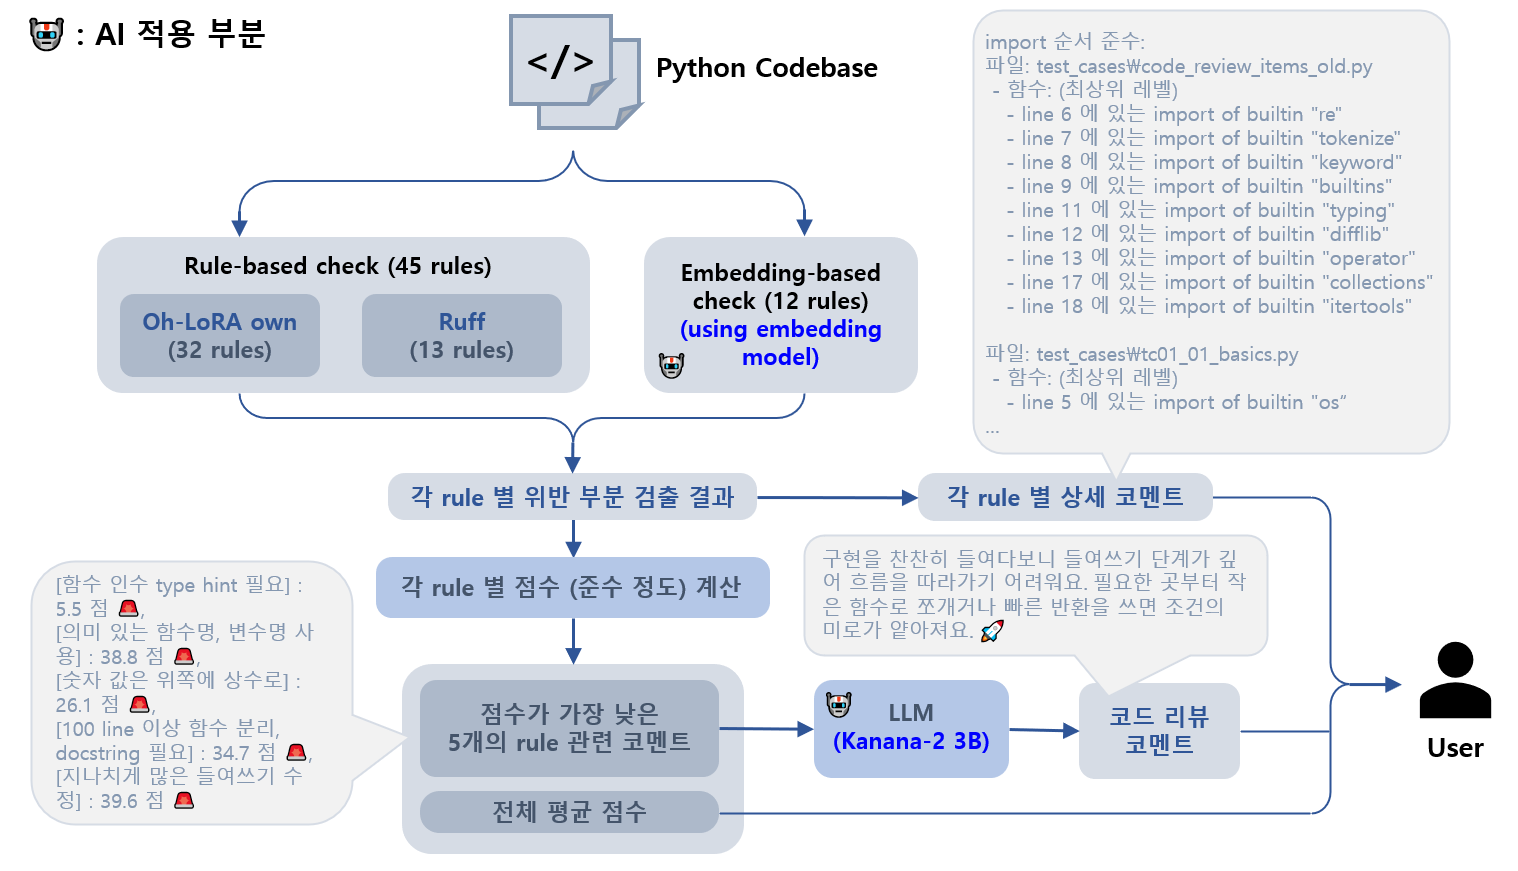
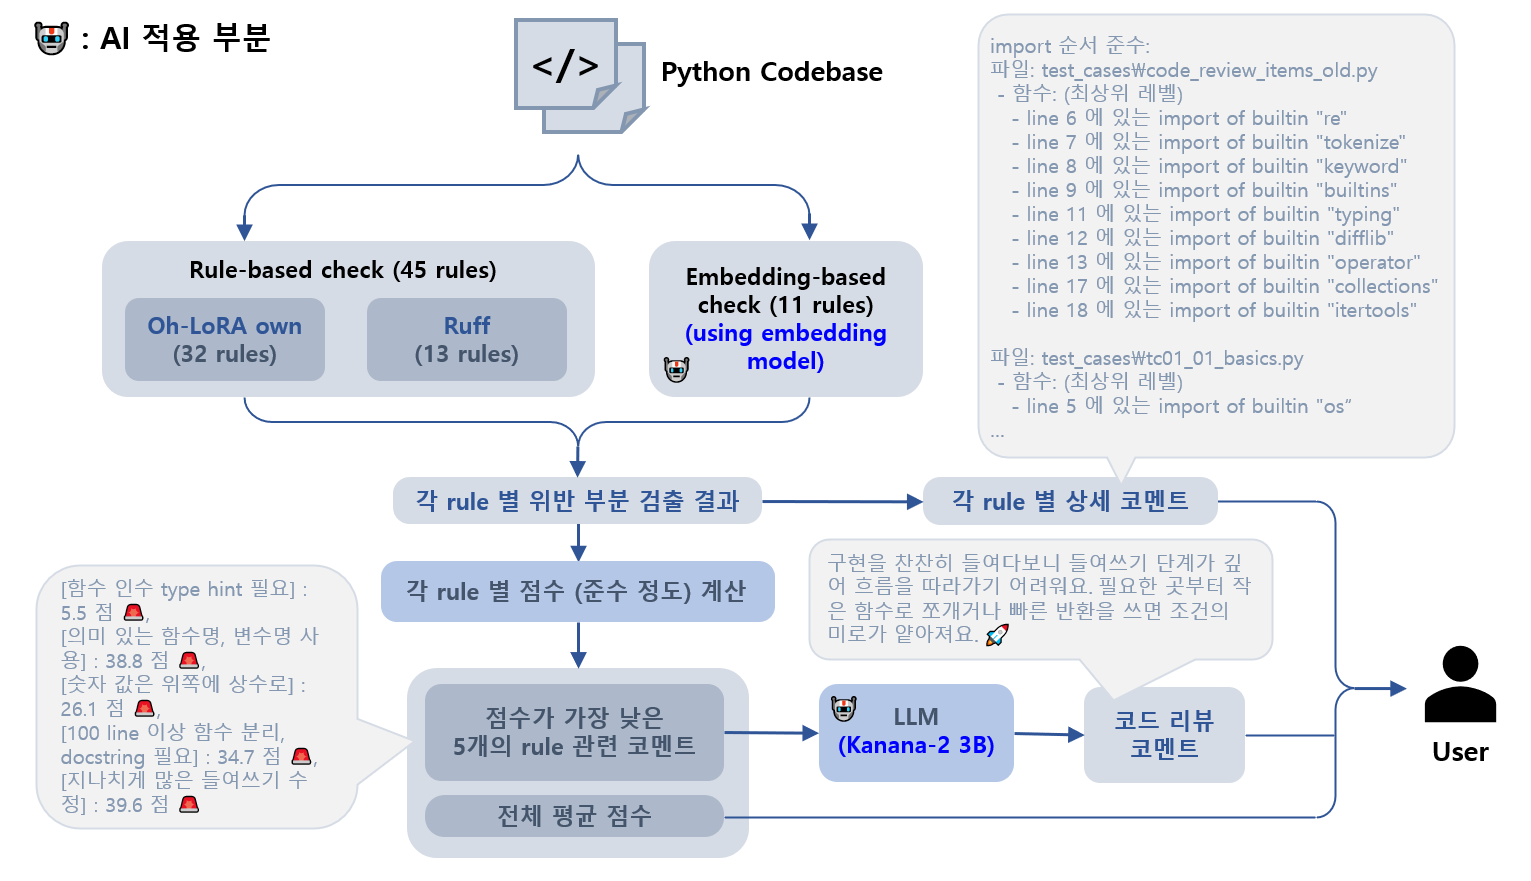
DOC: add detailed process info

diff --git a/2026_08_28_OhLoRA_Code_Assistant/code_reviewer/README.md b/2026_08_28_OhLoRA_Code_Assistant/code_reviewer/README.md
@@ -18,7 +18,7 @@
 
 | 프로세스         | 입력                        | 출력                                                             | 처리 과정                                                                                                       |
 |--------------|---------------------------|----------------------------------------------------------------|-------------------------------------------------------------------------------------------------------------|
-| 코드 리뷰        | Python 코드베이스              | 각 rule 별 위반 부분 검출 결과                                           | - Rule-based check (45개 규칙, 13개의 `ruff` 규칙 포함)<br>- 🤖 임베딩 기반 check (12개 규칙)                                |
+| 코드 리뷰        | Python 코드베이스              | 각 rule 별 위반 부분 검출 결과                                           | - Rule-based check (45개 규칙, 13개의 `ruff` 규칙 포함)<br>- 🤖 임베딩 기반 check (11개 규칙)                                |
 | 사용자 코멘트 도출   | 각 rule 별 위반 부분 검출 결과      | - 각 rule 별 상세 코멘트<br>- 점수가 가장 낮은 5개의 rule 관련 코멘트<br>- 전체 평균 점수 | - 검출 결과로부터 상세 코멘트 생성<br>- 각 rule 별 **준수 정도를 나타내는 점수** 를 일정한 수식에 의해 계산<br>- 전체 평균 점수는 **각 rule 별 점수의 산술 평균** |
 | 코드 리뷰 코멘트 생성 | 점수가 가장 낮은 5개의 rule 관련 코멘트 | 코드 리뷰 코멘트                                                      | 🤖 LLM은 `kanana-2-3b-instruct` 모델 사용                                                                        |
 
@@ -26,7 +26,81 @@
 
 ### 3-1. 코드 리뷰
 
+Python Codebase 를 **Rule-based 기반 검사 규칙** 및 **임베딩 기반 검사 규칙** 에 의해 검사하고, 각 rule 별 위반된 부분을 검출한다.
+
+* [코드 리뷰 기준 (전체 rule)](code_review_standard.md)
+* Rule-based check (45개 규칙)
+  * [ruff 의 한계점 분석 결과 (Oh-LoRA 자체 규칙 32개의 도입 이유)](ruff_limits.md)
+* Embedding-based check (11개 규칙)
+  * [각 규칙 별 선택한 임베딩 모델](../embedding_model/model_candidates.md)
+  * [각 규칙 별 임베딩 모델 테스트 결과](../embedding_model/model_test_result.md)
+
 ### 3-2. 사용자 코멘트 도출
+
+**각 rule 별 위반 부분 검출 결과** 에 따라 **각 rule 별 상세 코멘트, 점수가 가장 낮은 5개의 rule 관련 코멘트, 전체 평균 점수** 도출
+
+* 각 rule 별 상세 코멘트
+  * **규칙 별 > 파일 별 > 함수 별** 로 아래 예시와 같이 상세 코멘트 도출
+
+```
+import 순서 준수:
+파일: test_cases\code_review_items_old.py
+ - 함수: (최상위 레벨)
+   - line 6 에 있는 import of builtin "re"
+   - line 7 에 있는 import of builtin "tokenize"
+   - line 8 에 있는 import of builtin "keyword"
+   - line 9 에 있는 import of builtin "builtins"
+   - line 11 에 있는 import of builtin "typing"
+   - line 12 에 있는 import of builtin "difflib"
+   - line 13 에 있는 import of builtin "operator"
+   - line 17 에 있는 import of builtin "collections"
+   - line 18 에 있는 import of builtin "itertools"
+
+파일: test_cases\tc01_01_basics.py
+ - 함수: (최상위 레벨)
+   - line 5 에 있는 import of builtin "os"
+
+파일: test_cases\tc01_08.py
+ - 함수: (최상위 레벨)
+   - line 6 에 있는 import of builtin "sys"
+   - line 7 에 있는 import of builtin "collections"
+   - line 10 에 있는 import of builtin "re"
+   - line 11 에 있는 import of 3rd-party "torch"
+
+
+함수 docstring, 함수명 의미 일치:
+파일: test_cases\ai_test.py
+ - 함수: throttle
+   - line 32 에 있는 함수 throttle - docstring 불일치
+
+ - 함수: test_1
+   - line 40 에 있는 함수 test_1 단일 책임 원칙 위반
+   - line 40 에 있는 함수 test_1 - docstring 불일치
+
+ - 함수: test_2
+   - line 45 에 있는 함수 test_2 - docstring 불일치
+
+ - 함수: test_3
+   - line 49 에 있는 함수 test_3 단일 책임 원칙 위반
+   - line 49 에 있는 함수 test_3 - docstring 불일치
+
+ - 함수: test_4
+   - line 53 에 있는 함수 test_4 - docstring 불일치
+
+ - 함수: test_5
+   - line 58 에 있는 함수 test_5 - docstring 불일치
+```
+
+* 각 rule 별 준수 정도 점수 계산
+  * 각 파일 별, **`해당 파일의 line 수` - 100 x `위반 건수`** 를 계산 (최솟값 0)
+  * 해당 값을 `모든 파일의 line 수 합계` 로 나눈 값을 계산
+  * 이 값을 100점으로 환산
+
+* 전체 평균 점수
+  * 모든 rule 별, 위 기준으로 계산한 점수의 산술 평균 
 
 ### 3-3. 코드 리뷰 코멘트 생성
 
+**점수가 가장 낮은 5개의 rule** 정보를 기반으로, LLM (Kanana-2 3B) 을 이용한 코드 리뷰 코멘트 생성
+
+* [LLM 선택 근거 및 테스트 결과 (ChatGPT-as-a-judge)](../llm_model/llm_selection.md)

diff --git a/2026_08_28_OhLoRA_Code_Assistant/embedding_model/model_test_result.md b/2026_08_28_OhLoRA_Code_Assistant/embedding_model/model_test_result.md
@@ -41,12 +41,14 @@
 | 함수명과 반환값이 서로 잘 match 되어야 함              | `LateOn-Code-pretrain` | 0.1076 / **0.1011**                             | 0.0182 / **0.0174**                             | [학습 로그](train_log/01_return_matched_with_func_name.csv), [테스트 로그](train_log/test_01_return_matched_with_func_name.csv)                                 |
 | 함수의 단일 책임 원칙 준수 여부 (docstring 으로 판단)    | `F2LLM-v2-330M`        | - / **0.0031**                                  | - / **3.6e-5**                                  | [학습 로그](train_log/01_func_docstring_single_responsibility.csv), [테스트 로그](train_log/test_01_func_docstring_single_responsibility.csv)                   |
 | 함수 docstring과 함수명이 서로 일치하는지 판단          | `F2LLM-v2-330M`        | - / **0.1357**                                  | - / **0.0290**                                  | [학습 로그](train_log/01_func_docstring_docstring_and_name.csv), [테스트 로그](train_log/test_01_func_docstring_docstring_and_name.csv)                         |
-| 함수의 인자가 하나로 묶을 수 있는 경우 처리 필요            | `LateOn-Code-pretrain` | 0.1057 / **0.0956**                             | 0.0265 / **0.0175**                             | [학습 로그](train_log/04_func_args_bindable.csv), [테스트 로그](train_log/test_04_func_args_bindable.csv)                                                       |
-| 함수의 인자가 유동적인 경우 처리 필요                   | `LateOn-Code-pretrain` | - / **0.0555**                                  | - / **0.0058**                                  | [학습 로그](train_log/04_func_args_dynamic.csv), [테스트 로그](train_log/test_04_func_args_dynamic.csv)                                                         |
+| 함수의 인자가 `하나로 묶을 수 있는 경우` 처리 필요          | `LateOn-Code-pretrain` | 0.1057 / **0.0956**                             | 0.0265 / **0.0175**                             | [학습 로그](train_log/04_func_args_bindable.csv), [테스트 로그](train_log/test_04_func_args_bindable.csv)                                                       |
+| 함수의 인자가 `유동적인 경우` 처리 필요                 | `LateOn-Code-pretrain` | - / **0.0555**                                  | - / **0.0058**                                  | [학습 로그](train_log/04_func_args_dynamic.csv), [테스트 로그](train_log/test_04_func_args_dynamic.csv)                                                         |
 | 상태 값으로 판단되는 값을 조건으로 하는지 여부              | `LateOn-Code-pretrain` | 0.0331 / **0.0410**                             | 0.0041 / **0.0072**                             | [학습 로그](train_log/06_refactor_into_class_case_2_state_vars_if_else.csv), [테스트 로그](train_log/test_06_refactor_into_class_case_2_state_vars_if_else.csv) |
 | 한 모듈 (*.py 파일) 내에서, 유사한 이름의 함수끼리 거리 검사  | `LateOn-Code-pretrain` | 0.1605 / **0.1602**                             | 0.0396 / **0.0452**                             | [학습 로그](train_log/06_similar_function_names.csv), [테스트 로그](train_log/test_06_similar_function_names.csv)                                               |
 | 숫자 값을 constant 처럼 사용 시, 해당 값 상수화 적절성 판단 | `LateOn-Code-pretrain` | 0.1297 / **0.1131**                             | 0.0348 / **0.0197**                             | [학습 로그](train_log/02_numeric_values_maybe_const.csv), [테스트 로그](train_log/test_02_numeric_values_maybe_const.csv)                                       |
 | 동일한 숫자 값 2회 이상 사용 시, 상수로 통합 적절성 판단      | `LateOn-Code-pretrain` | - / **0.1337**                                  | - / **0.0302**                                  | [학습 로그](train_log/02_numeric_values_twice.csv), [테스트 로그](train_log/test_02_numeric_values_twice.csv)                                                   |
+
+* 참고: `함수의 인자가 하나로 묶을 수 있는 경우` 와 `함수의 인자가 유동적인 경우` 는 1개의 규칙을 **서로 다른 모델을 통한 검사로 정확도 향상을 위해 세분화** 한 것임.
 
 ## 2. 각 규칙 별 예측, 실제 점수 분포
 

diff --git a/2026_08_28_OhLoRA_Code_Assistant/README.md b/2026_08_28_OhLoRA_Code_Assistant/README.md
@@ -123,7 +123,7 @@
 | ⚙ 기능 구현    | 코드 리뷰 결과 요약 및 평가 프로세스 구현                                           | 10.01 목 - 10.06 화 (6d)  | `P010-009-evaluation`        | [issue](https://github.com/WannaBeSuperteur/AI_Projects/issues/65) | ✅  |
 | 📝 데이터셋 제작 | 코드 리뷰 결과 생성 LLM 데이터셋 제작                                            | 10.06 화 - 10.07 수 (2d)  |                              | [issue](https://github.com/WannaBeSuperteur/AI_Projects/issues/66) | ✅  |
 | 🧪 모델 학습   | 코드 리뷰 결과 생성 LLM 학습                                                 | 10.08 목 - 10.10 토 (3d)  | `P010-010-llm`               | [issue](https://github.com/WannaBeSuperteur/AI_Projects/issues/67) | ✅  |
-| 📃 문서화     | "Python 코드 리뷰 어시스턴트" 개발 내용 문서화                                     | 10.10 토 (1d)            |                              |                                                                    | 💨 |
+| 📃 문서화     | "Python 코드 리뷰 어시스턴트" 개발 내용 문서화                                     | 10.10 토 (1d)            |                              |                                                                    | ✅  |
 
 **3. Pull Request 코멘트 작성**
 

diff --git a/2026_08_28_OhLoRA_Code_Assistant/embedding_model/model_candidates.md b/2026_08_28_OhLoRA_Code_Assistant/embedding_model/model_candidates.md
@@ -58,6 +58,8 @@
 | ➕ 숫자 값을 constant 처럼 사용 시, 해당 값 상수화 적절성 판단 | `CodeTransOceanContest`      | 상동                                                                                                                                          |
 | ➕ 동일한 숫자 값 2회 이상 사용 시, 상수로 통합 적절성 판단      | `CodeTransOceanContest`      | 상동                                                                                                                                          |
 
+* 참고: `함수의 인자가 하나로 묶을 수 있는 경우` 와 `함수의 인자가 유동적인 경우` 는 1개의 규칙을 **서로 다른 모델을 통한 검사로 정확도 향상을 위해 세분화** 한 것임.
+
 ## 3. 최종 모델 선정
 
 * 선정 기준
